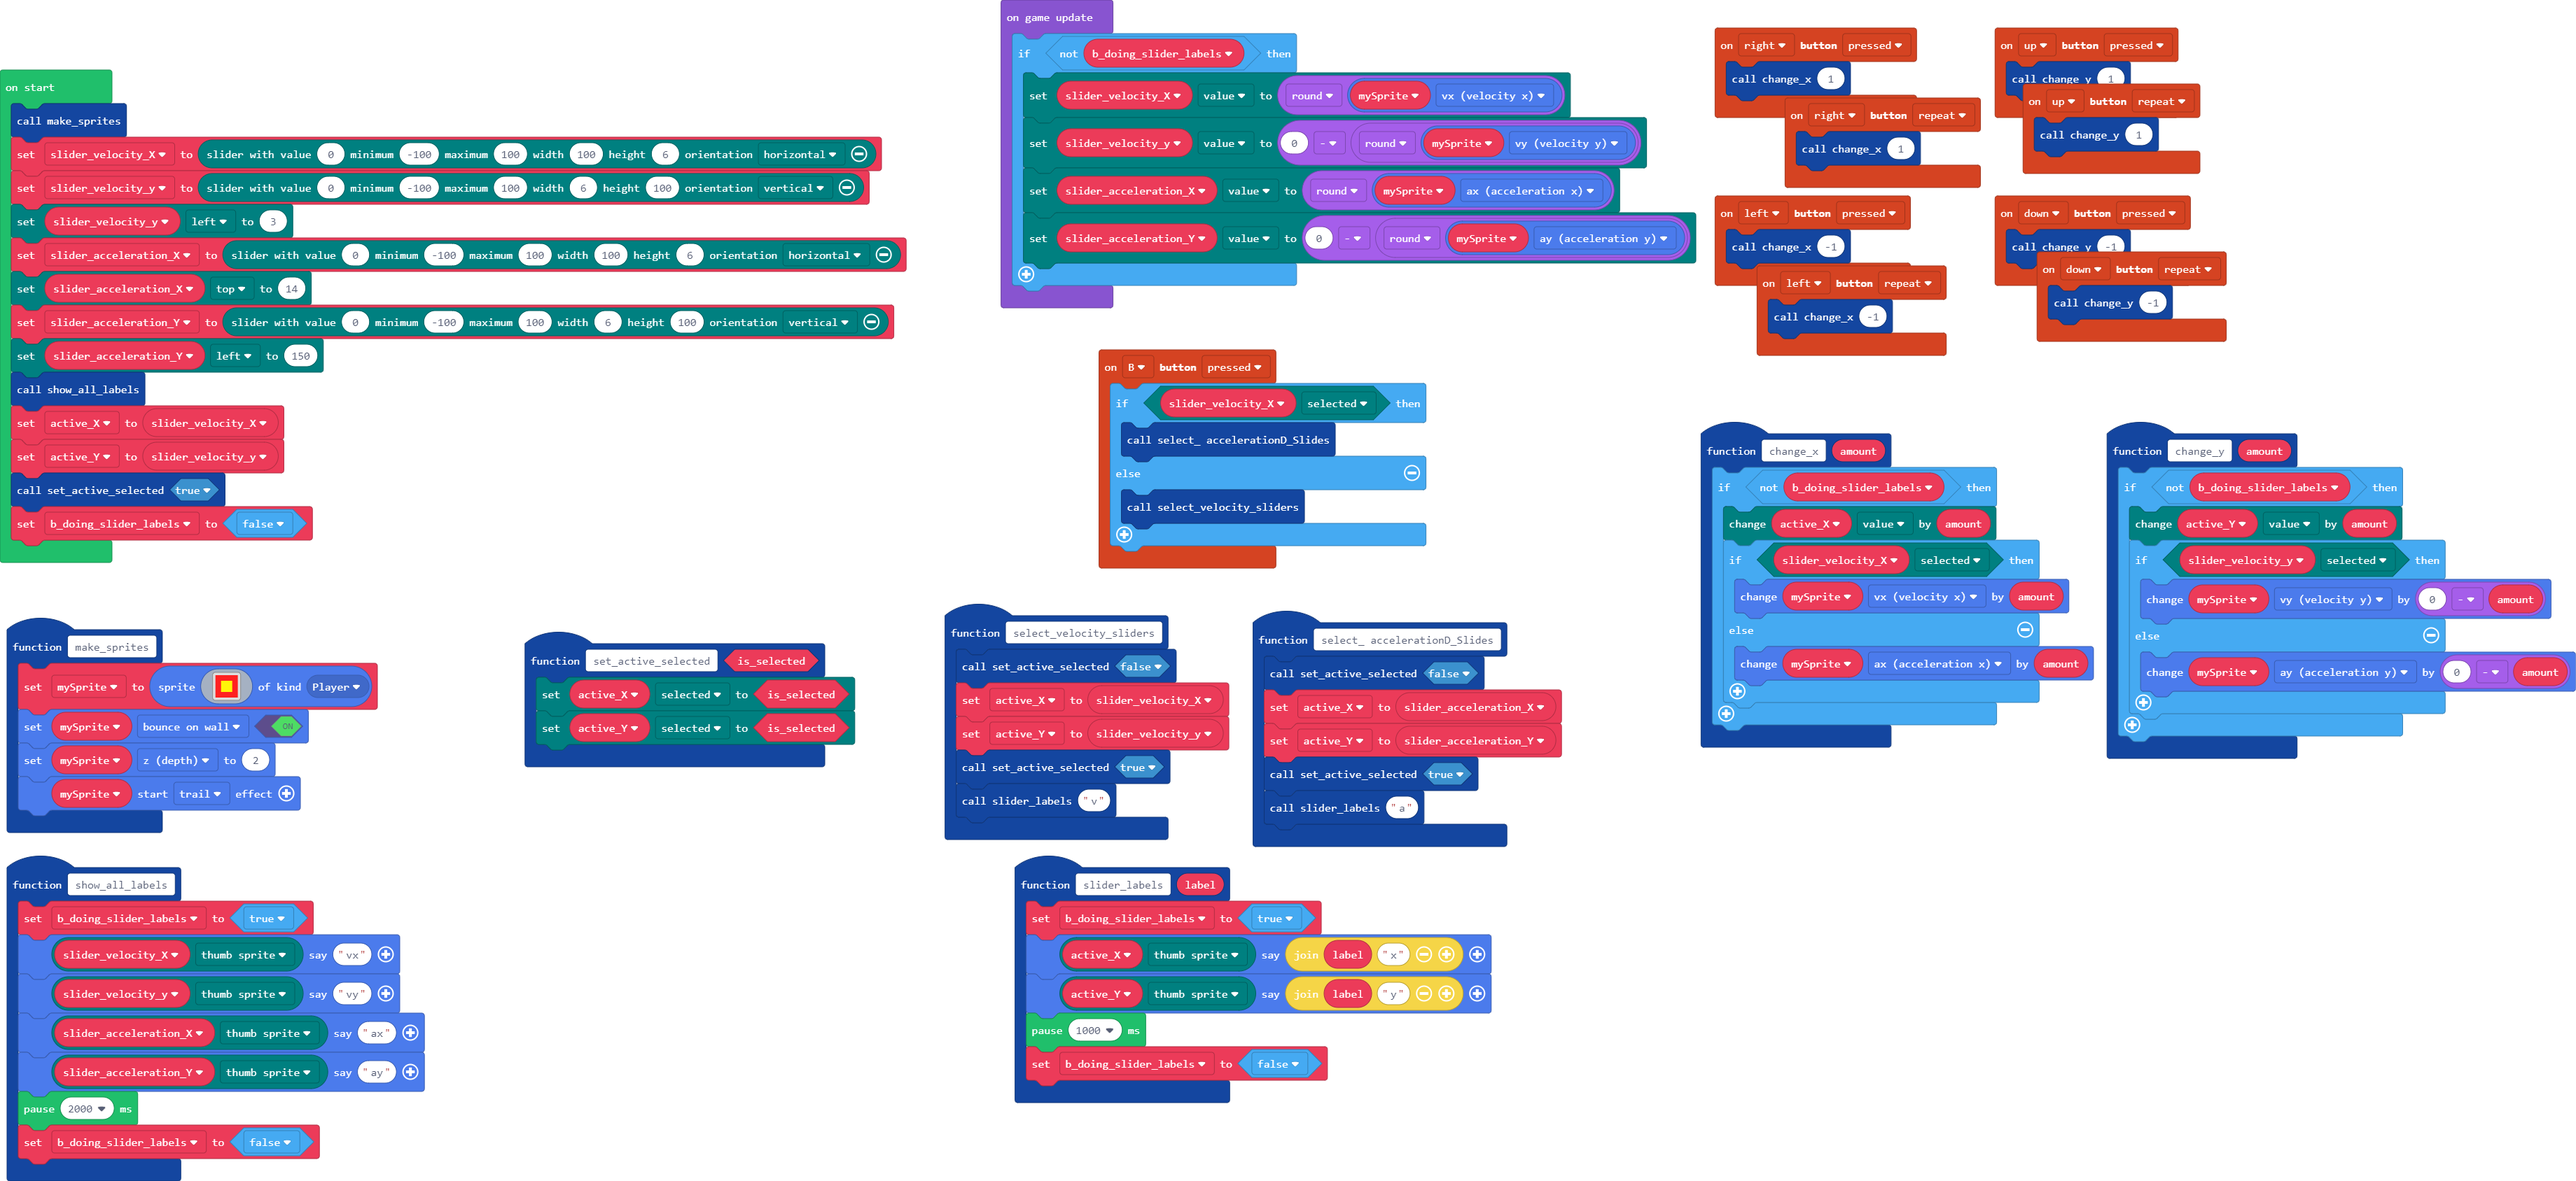
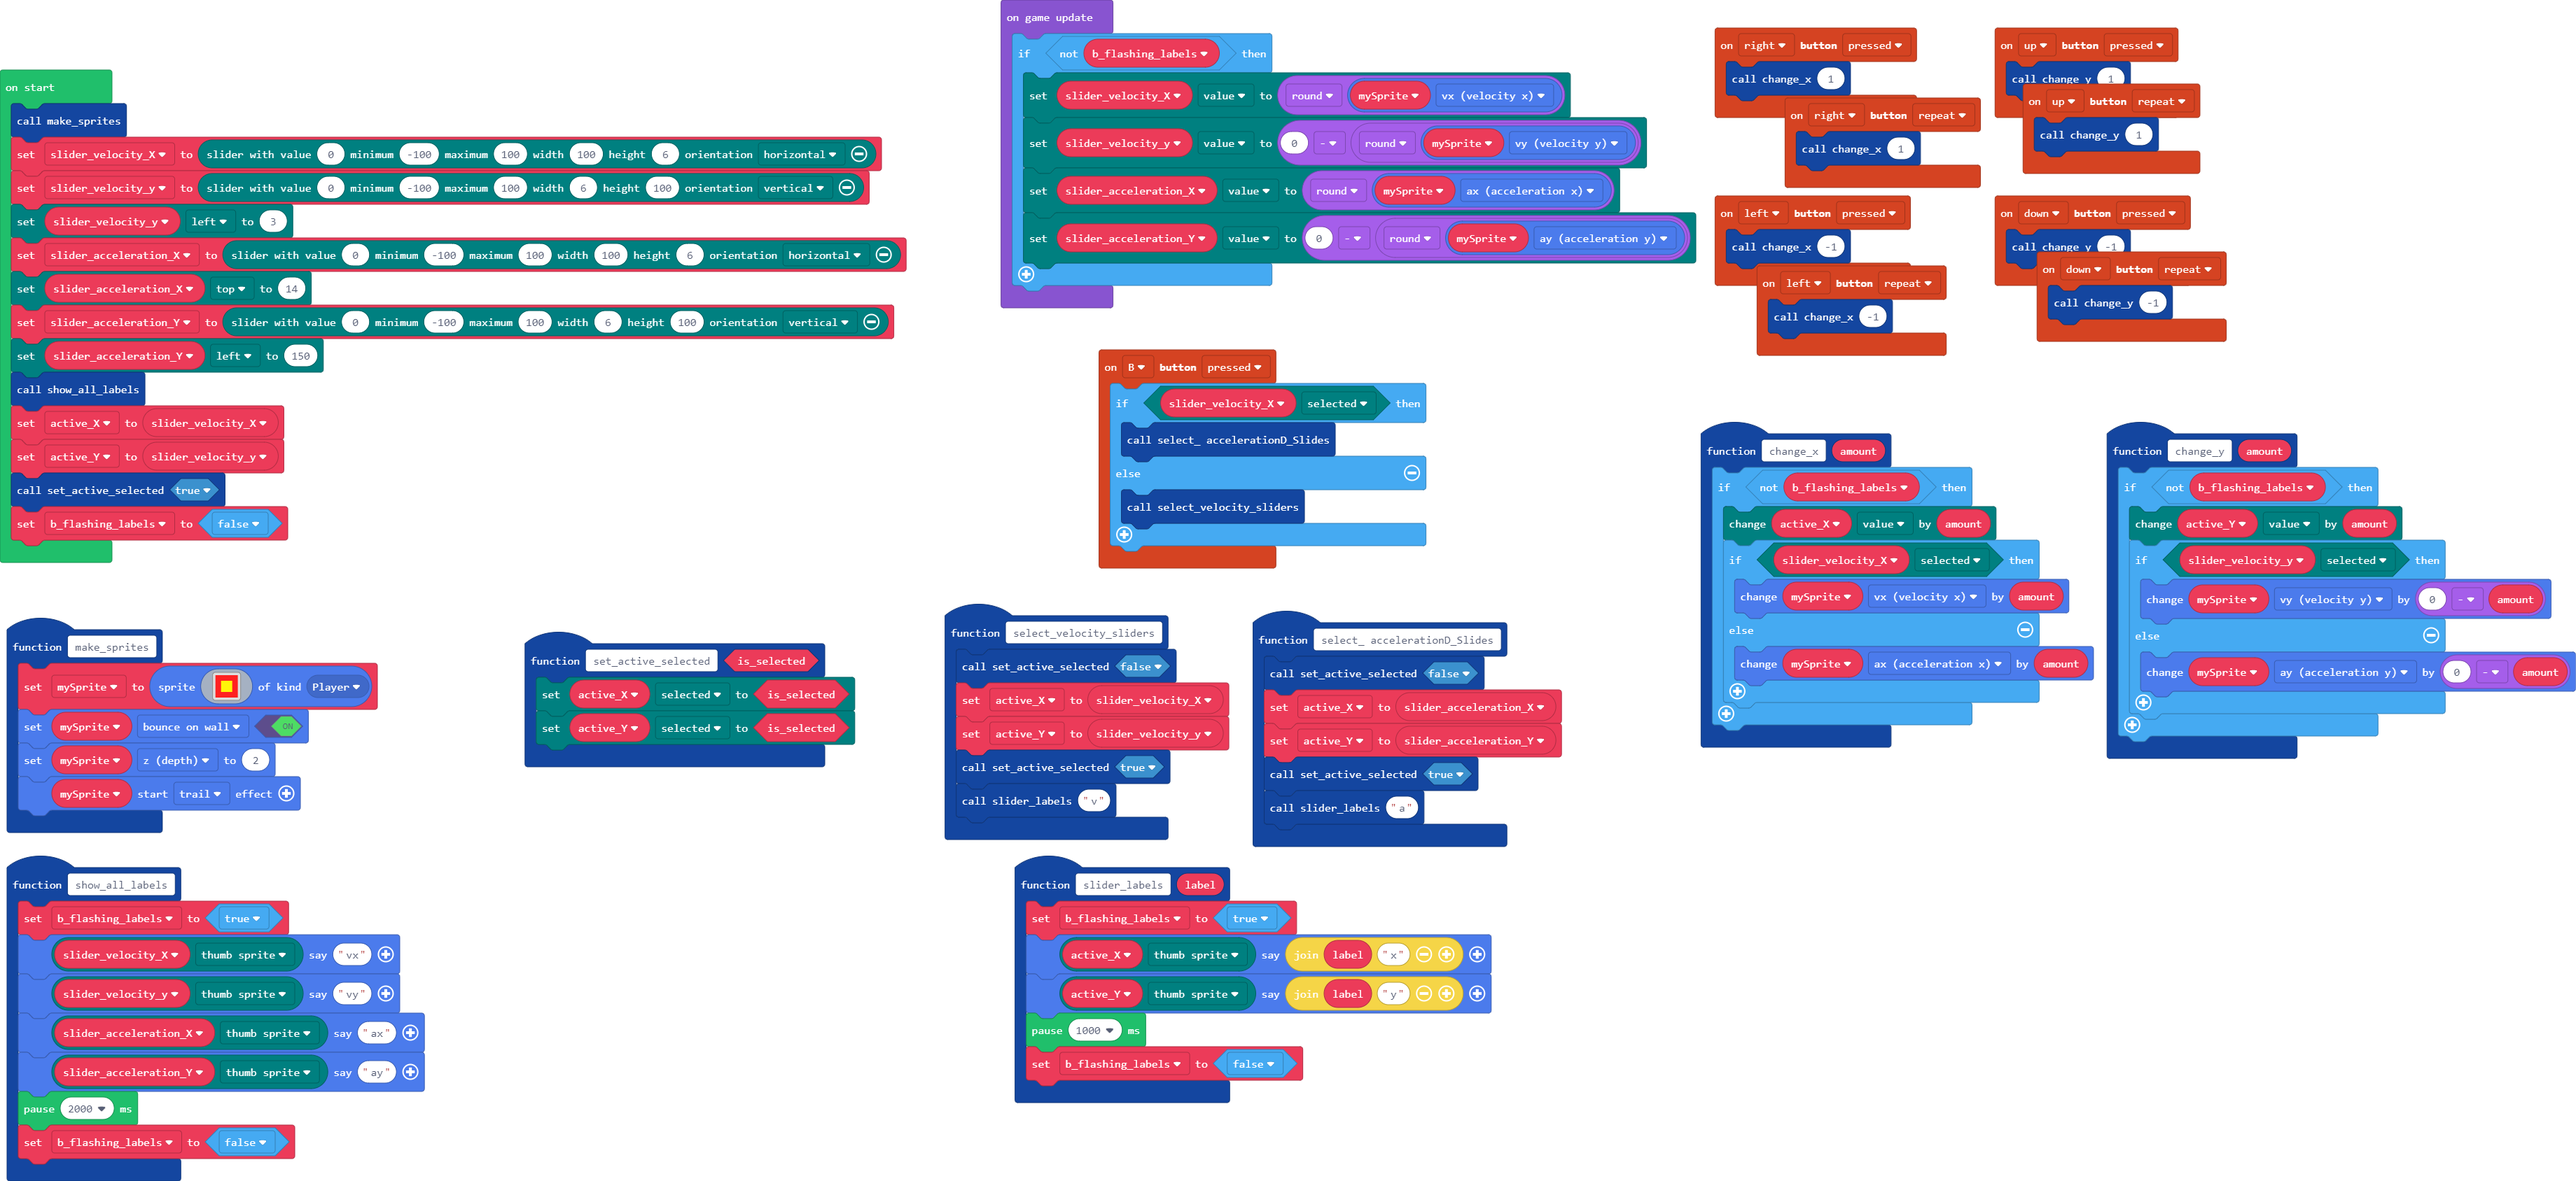
Update main.blocks, main.ts

diff --git a/main.ts b/main.ts
@@ -1,5 +1,5 @@
 function change_x (amount: number) {
-    if (!(b_doing_slider_labels)) {
+    if (!(b_flashing_labels)) {
         active_X.value += amount
         if (slider_velocity_X.selected) {
             mySprite.vx += amount
@@ -16,7 +16,7 @@ function select_velocity_sliders () {
     slider_labels("v")
 }
 function change_y (amount: number) {
-    if (!(b_doing_slider_labels)) {
+    if (!(b_flashing_labels)) {
         active_Y.value += amount
         if (slider_velocity_y.selected) {
             mySprite.vy += 0 - amount
@@ -56,13 +56,13 @@ function select__accelerationD_Slides () {
     slider_labels("a")
 }
 function show_all_labels () {
-    b_doing_slider_labels = true
+    b_flashing_labels = true
     slider_velocity_X.thumb_sprite.say("vx")
     slider_velocity_y.thumb_sprite.say("vy")
     slider_acceleration_X.thumb_sprite.say("ax")
     slider_acceleration_Y.thumb_sprite.say("ay")
     pause(2000)
-    b_doing_slider_labels = false
+    b_flashing_labels = false
 }
 controller.right.onEvent(ControllerButtonEvent.Pressed, function () {
     change_x(1)
@@ -88,14 +88,14 @@ controller.left.onEvent(ControllerButtonEvent.Repeated, function () {
     change_x(-1)
 })
 function slider_labels (label: string) {
-    b_doing_slider_labels = true
+    b_flashing_labels = true
     active_X.thumb_sprite.say("" + label + "x")
     active_Y.thumb_sprite.say("" + label + "y")
     pause(1000)
-    b_doing_slider_labels = false
+    b_flashing_labels = false
 }
 let mySprite: Sprite = null
-let b_doing_slider_labels = false
+let b_flashing_labels = false
 let active_Y: Slider = null
 let active_X: Slider = null
 let slider_acceleration_Y: Slider = null
@@ -114,9 +114,9 @@ show_all_labels()
 active_X = slider_velocity_X
 active_Y = slider_velocity_y
 set_active_selected(true)
-b_doing_slider_labels = false
+b_flashing_labels = false
 game.onUpdate(function () {
-    if (!(b_doing_slider_labels)) {
+    if (!(b_flashing_labels)) {
         slider_velocity_X.value = Math.round(mySprite.vx)
         slider_velocity_y.value = 0 - Math.round(mySprite.vy)
         slider_acceleration_X.value = Math.round(mySprite.ax)
